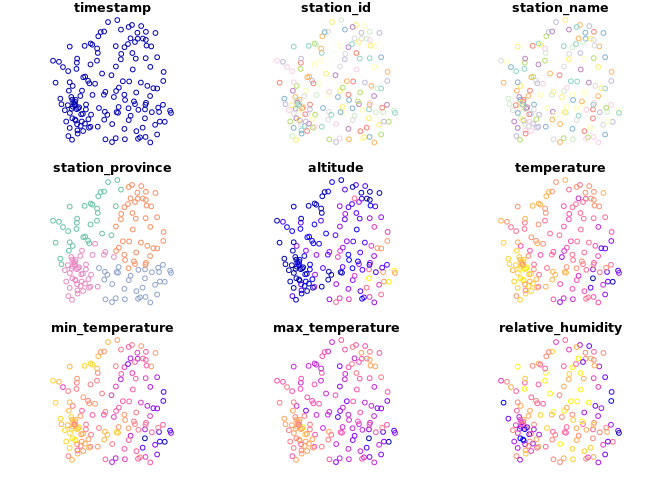
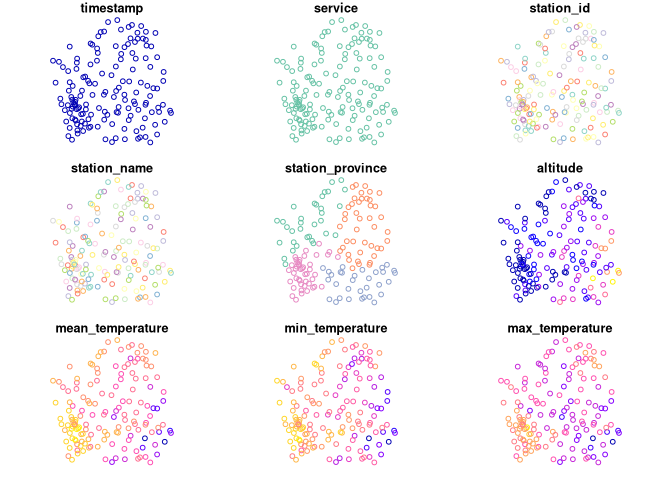
updated news and readme

diff --git a/README.md b/README.md
@@ -30,6 +30,8 @@ The following meteorological stations services are available:
 -   [MeteoCat](https://meteo.cat), the Catalan Meteorology Service.
 -   [MeteoGalicia](https://www.meteogalicia.gal/web/inicio.action), the
     galician meteorological service.
+-   [RIA](https://www.juntadeandalucia.es/agriculturaypesca/ifapa/riaweb/web/),
+    the andalucian agroclimatic information network.
 -   [Meteoclimatic](https://www.meteoclimatic.net/), the spanish
     non-professional meteorological stations network.
 
@@ -50,25 +52,25 @@ get_meteo_from('meteogalicia', mg_options)
 #> Consellería de Medio Ambiente, Territorio e Vivenda da Xunta de Galicia como fonte da mesma cada vez 
 #> que as utilice para os usos distintos do particular e privado.
 #> https://www.meteogalicia.gal/web/informacion/notaIndex.action
-#> Simple feature collection with 3681 features and 13 fields
+#> Simple feature collection with 3602 features and 14 fields
 #> Geometry type: POINT
 #> Dimension:     XY
 #> Bounding box:  xmin: -9.178318 ymin: 41.8982 xmax: -6.765224 ymax: 43.734
 #> Geodetic CRS:  WGS 84
-#> # A tibble: 3,681 x 14
-#>    timestamp           station_id station_name     station_province altitude
-#>    <dttm>              <chr>      <chr>            <chr>                 [m]
-#>  1 2021-06-01 13:00:00 10045      Mabegondo        A Coruña               94
-#>  2 2021-06-01 13:00:00 10046      Marco da Curra   A Coruña              651
-#>  3 2021-06-01 13:00:00 10047      Pedro Murias     Lugo                   51
-#>  4 2021-06-01 13:00:00 10048      O Invernadeiro   Ourense              1026
-#>  5 2021-06-01 13:00:00 10049      Corrubedo        A Coruña               30
-#>  6 2021-06-01 13:00:00 10050      CIS Ferrol       A Coruña               37
-#>  7 2021-06-01 13:00:00 10053      Campus Lugo      Lugo                  400
-#>  8 2021-06-01 13:00:00 10055      Guitiriz-Mirador Lugo                  684
-#>  9 2021-06-01 13:00:00 10056      Marroxo          Lugo                  645
-#> 10 2021-06-01 13:00:00 10057      Alto do Rodicio  Ourense               981
-#> # … with 3,671 more rows, and 9 more variables: temperature [°C],
+#> # A tibble: 3,602 x 15
+#>    timestamp           service station_id station_name station_province altitude
+#>    <dttm>              <chr>   <chr>      <chr>        <chr>                 [m]
+#>  1 2021-09-22 07:00:00 meteog… 10045      Mabegondo    A Coruña               94
+#>  2 2021-09-22 07:00:00 meteog… 10046      Marco da Cu… A Coruña              651
+#>  3 2021-09-22 07:00:00 meteog… 10047      Pedro Murias Lugo                   51
+#>  4 2021-09-22 07:00:00 meteog… 10048      O Invernade… Ourense              1026
+#>  5 2021-09-22 07:00:00 meteog… 10049      Corrubedo    A Coruña               30
+#>  6 2021-09-22 07:00:00 meteog… 10050      CIS Ferrol   A Coruña               37
+#>  7 2021-09-22 07:00:00 meteog… 10052      Muralla      A Coruña              661
+#>  8 2021-09-22 07:00:00 meteog… 10053      Campus Lugo  Lugo                  400
+#>  9 2021-09-22 07:00:00 meteog… 10055      Guitiriz-Mi… Lugo                  684
+#> 10 2021-09-22 07:00:00 meteog… 10056      Marroxo      Lugo                  645
+#> # … with 3,592 more rows, and 9 more variables: temperature [°C],
 #> #   min_temperature [°C], max_temperature [°C], relative_humidity [%],
 #> #   precipitation [L/m^2], wind_direction [°], wind_speed [m/s],
 #> #   insolation [h], geometry <POINT [°]>
@@ -78,25 +80,25 @@ Stations info can be accessed with `get_stations_info_from` function:
 
 ``` r
 get_stations_info_from('meteogalicia', mg_options)
-#> Simple feature collection with 156 features and 4 fields
+#> Simple feature collection with 153 features and 5 fields
 #> Geometry type: POINT
 #> Dimension:     XY
 #> Bounding box:  xmin: -9.178318 ymin: 41.8982 xmax: -6.765224 ymax: 43.734
 #> Geodetic CRS:  WGS 84
-#> # A tibble: 156 x 5
-#>    station_id station_name     station_province altitude                geometry
-#>  * <chr>      <chr>            <chr>                 [m]             <POINT [°]>
-#>  1 10157      Coruña-Torre de… A Coruña               21    (-8.409202 43.38276)
-#>  2 14000      Coruña-Dique     A Coruña                5    (-8.374706 43.36506)
-#>  3 10045      Mabegondo        A Coruña               94    (-8.262225 43.24137)
-#>  4 14003      Punta Langostei… A Coruña                5    (-8.531179 43.34723)
-#>  5 10144      Arzúa            A Coruña              362     (-8.17469 42.93196)
-#>  6 19005      Guísamo          A Coruña              175    (-8.276487 43.30799)
-#>  7 19012      Cespón           A Coruña               59    (-8.854571 42.67466)
-#>  8 10095      Sergude          A Coruña              231    (-8.461246 42.82283)
-#>  9 10800      Camariñas        A Coruña                5    (-9.178318 43.12445)
-#> 10 19001      Rus              A Coruña              134    (-8.685357 43.15616)
-#> # … with 146 more rows
+#> # A tibble: 153 x 6
+#>    service      station_id station_name             station_province altitude
+#>  * <chr>        <chr>      <chr>                    <chr>                 [m]
+#>  1 meteogalicia 10157      Coruña-Torre de Hércules A Coruña               21
+#>  2 meteogalicia 14000      Coruña-Dique             A Coruña                5
+#>  3 meteogalicia 10045      Mabegondo                A Coruña               94
+#>  4 meteogalicia 10144      Arzúa                    A Coruña              362
+#>  5 meteogalicia 19005      Guísamo                  A Coruña              175
+#>  6 meteogalicia 19012      Cespón                   A Coruña               59
+#>  7 meteogalicia 10095      Sergude                  A Coruña              231
+#>  8 meteogalicia 10800      Camariñas                A Coruña                5
+#>  9 meteogalicia 19001      Rus                      A Coruña              134
+#> 10 meteogalicia 10143      Cariño                   A Coruña                5
+#> # … with 143 more rows, and 1 more variable: geometry <POINT [°]>
 ```
 
 Returned objects are spatial objects (thanks to the
@@ -105,7 +107,7 @@ results directly.
 
 ``` r
 library(sf)
-#> Linking to GEOS 3.9.0, GDAL 3.2.1, PROJ 7.2.1
+#> Linking to GEOS 3.9.1, GDAL 3.3.1, PROJ 8.0.1
 mg_options <- meteogalicia_options(resolution = 'daily', start_date = as.Date('2021-04-25'))
 plot(get_meteo_from('meteogalicia', mg_options))
 #> A información divulgada a través deste servidor ofrécese gratuitamente aos cidadáns para que poida ser 
@@ -113,7 +115,7 @@ plot(get_meteo_from('meteogalicia', mg_options))
 #> Consellería de Medio Ambiente, Territorio e Vivenda da Xunta de Galicia como fonte da mesma cada vez 
 #> que as utilice para os usos distintos do particular e privado.
 #> https://www.meteogalicia.gal/web/informacion/notaIndex.action
-#> Warning: plotting the first 9 out of 15 attributes; use max.plot = 15 to plot
+#> Warning: plotting the first 9 out of 16 attributes; use max.plot = 16 to plot
 #> all
 ```
 

diff --git a/NEWS.md b/NEWS.md
@@ -1,5 +1,6 @@
 # meteospain (development version)
 
+* Added RIA (Red de Información Agroclimática de Andalucía) service
 * Better error for when MeteoGalicia stations info does not return all the columns needed
 
 # meteospain 0.0.1
